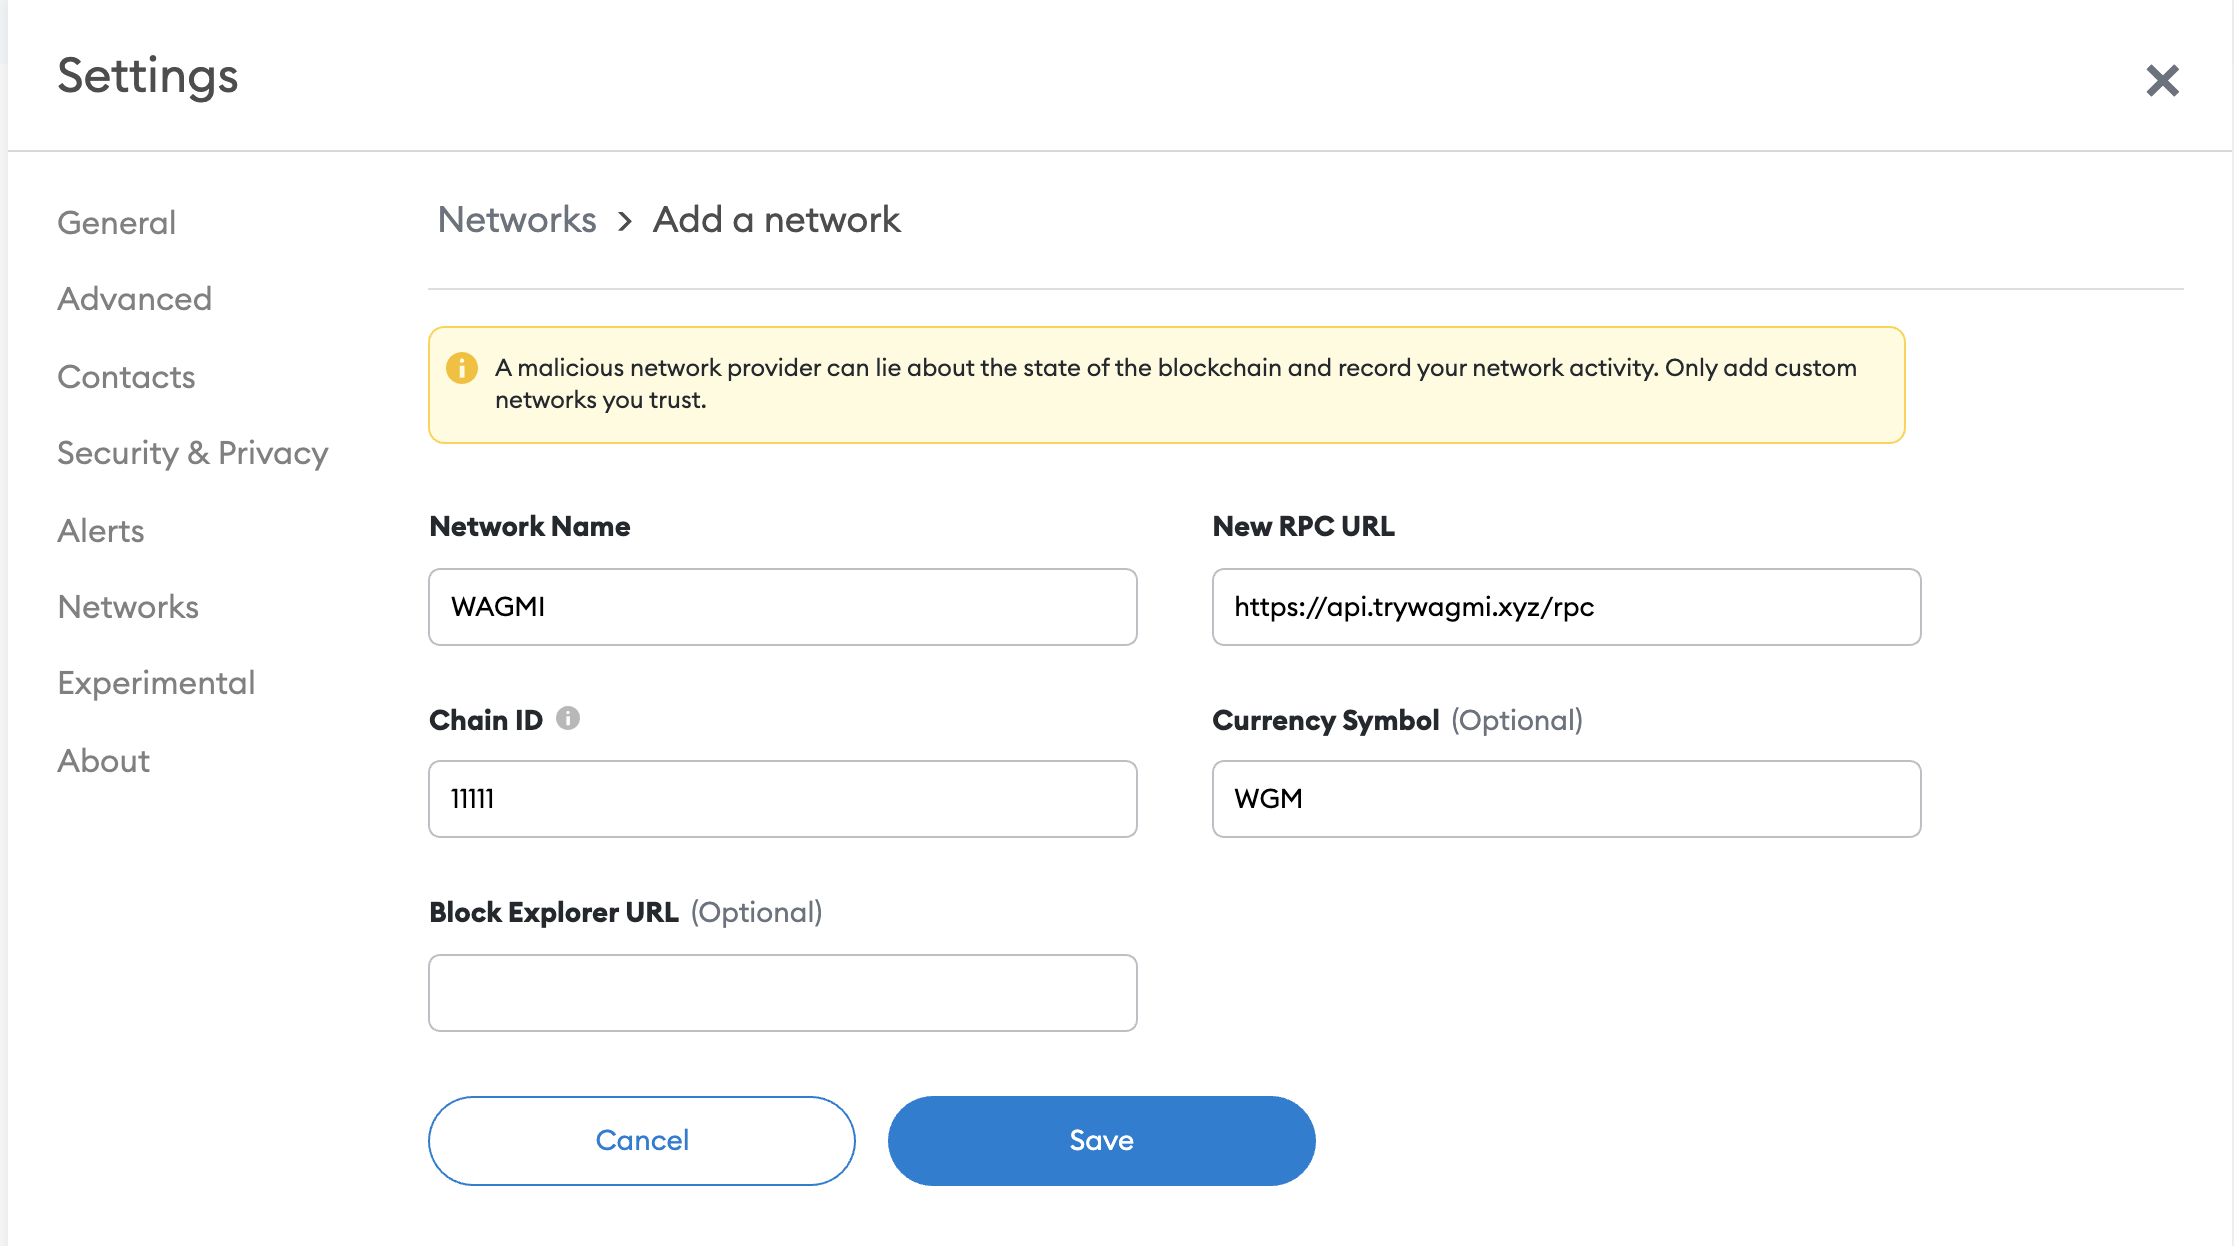
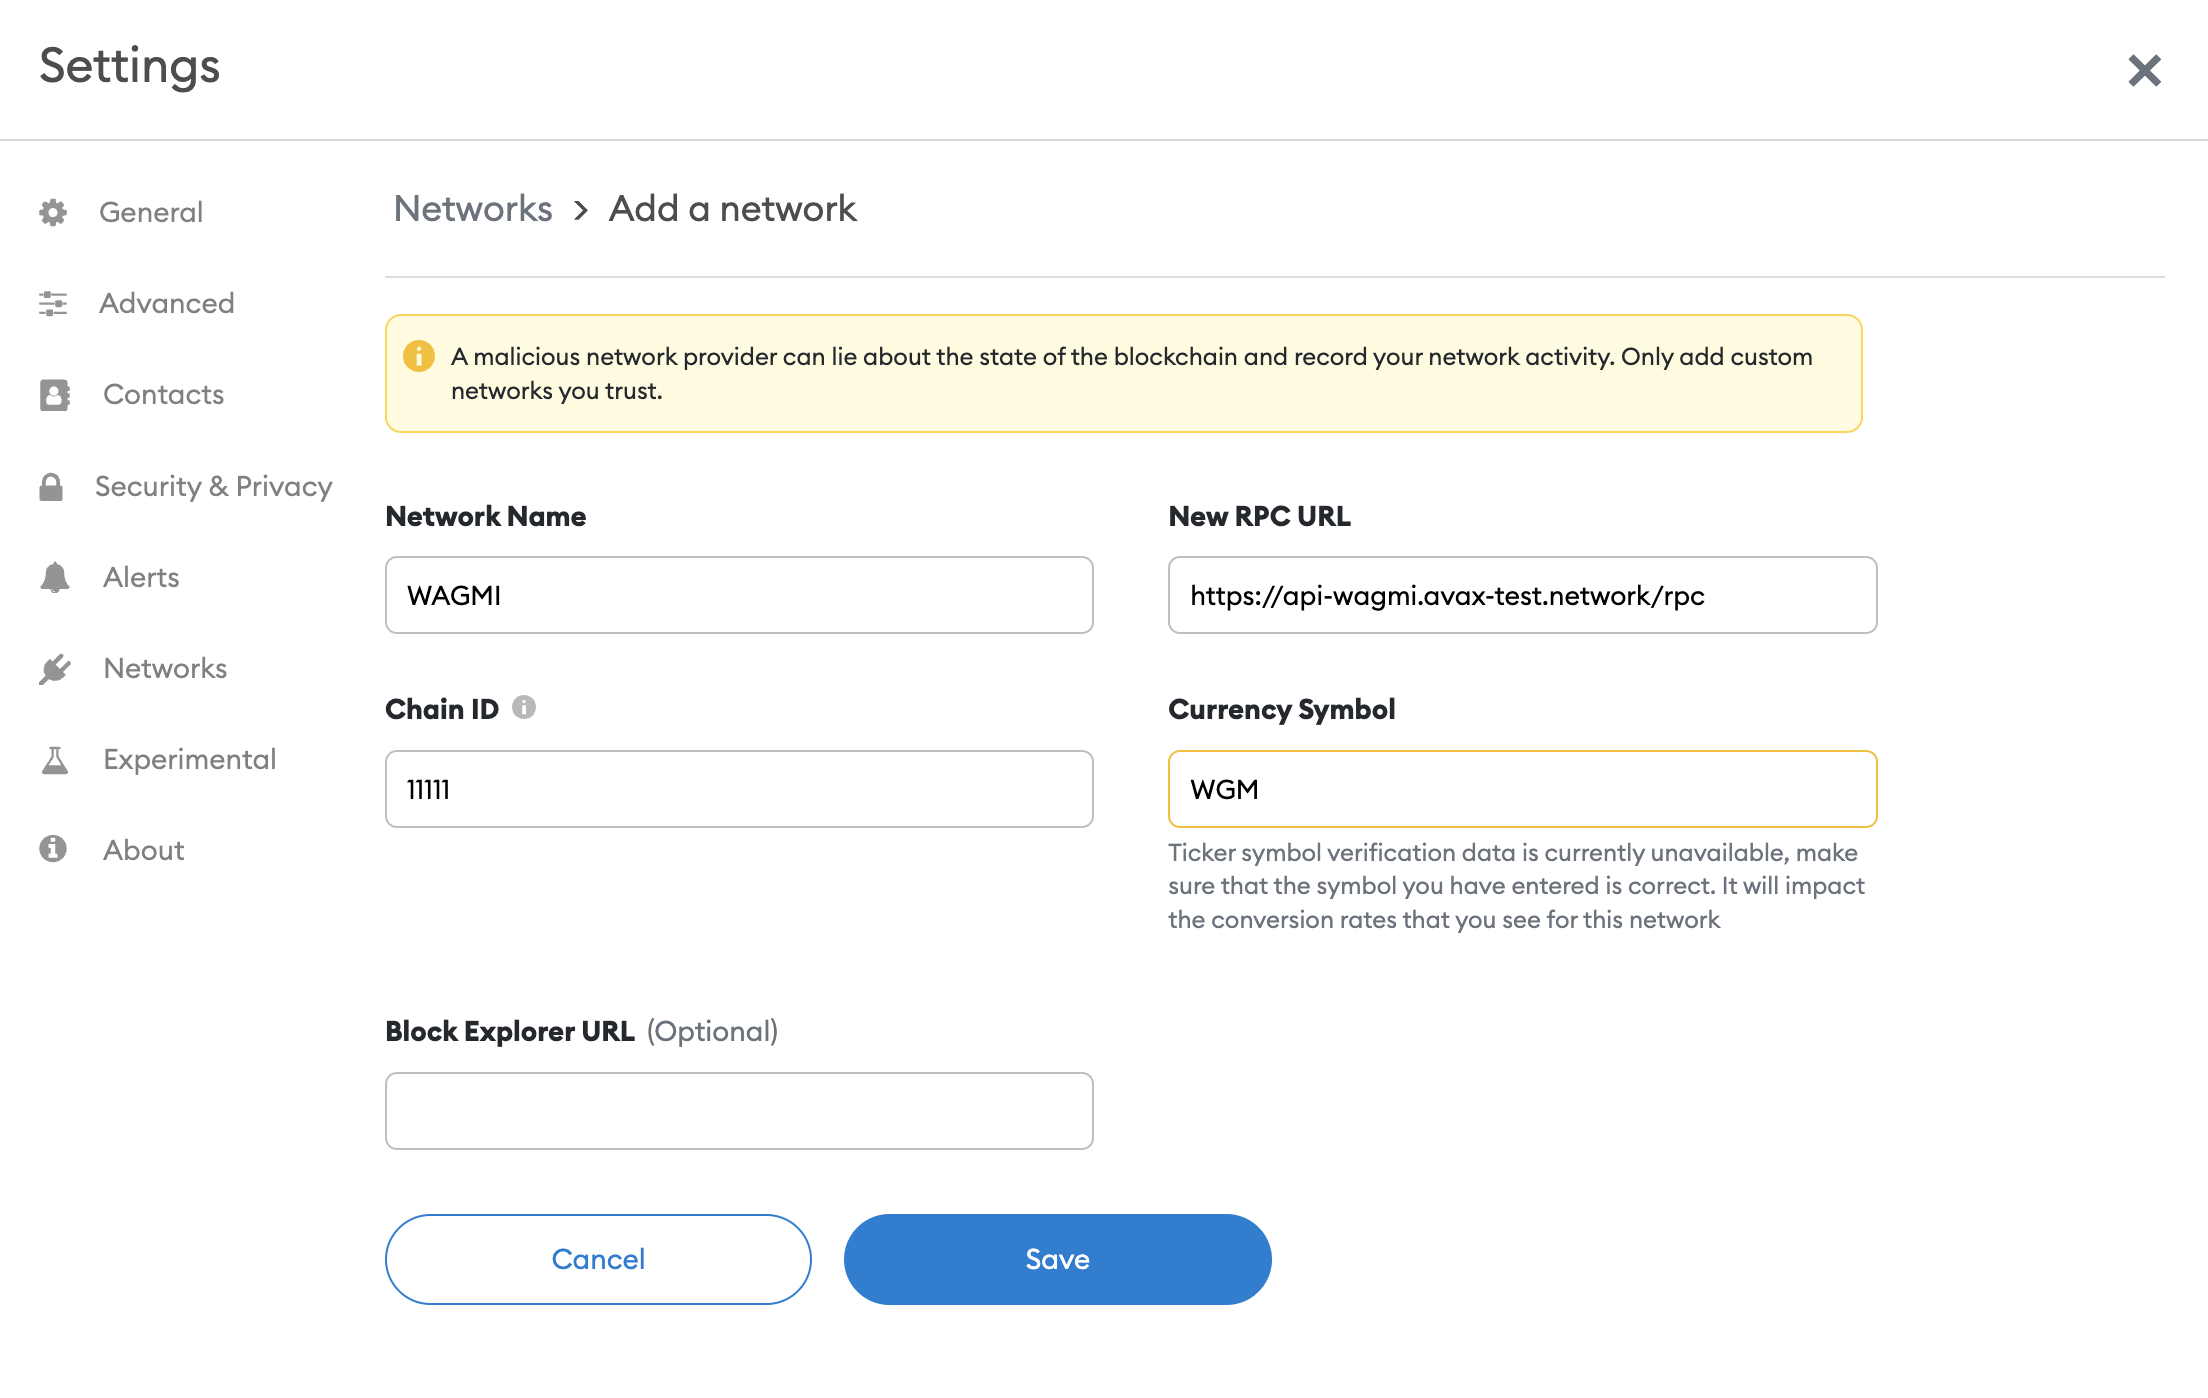
update API

diff --git a/README.md b/README.md
@@ -16,7 +16,7 @@ The Subnet EVM runs in a separate process from the main AvalancheGo process and 
 ```
 [v0.1.0] AvalancheGo@v1.7.0-v1.7.4
 [v0.1.1-v0.1.2] AvalancheGo@v1.7.5-v1.7.6
-[v0.2.0] AvalancheGo@v1.7.7
+[v0.2.0] AvalancheGo@v1.7.7-v1.7.8
 ```
 
 ## API
@@ -670,7 +670,7 @@ Target Block Rate: 2s (Same as C-Chain)
 
 ```
 Network Name: WAGMI
-RPC URL: https://api.trywagmi.xyz/rpc
+RPC URL: https://api-wagmi.avax-test.network/rpc
 Chain ID: 11111
 Symbol: WGM
 ```